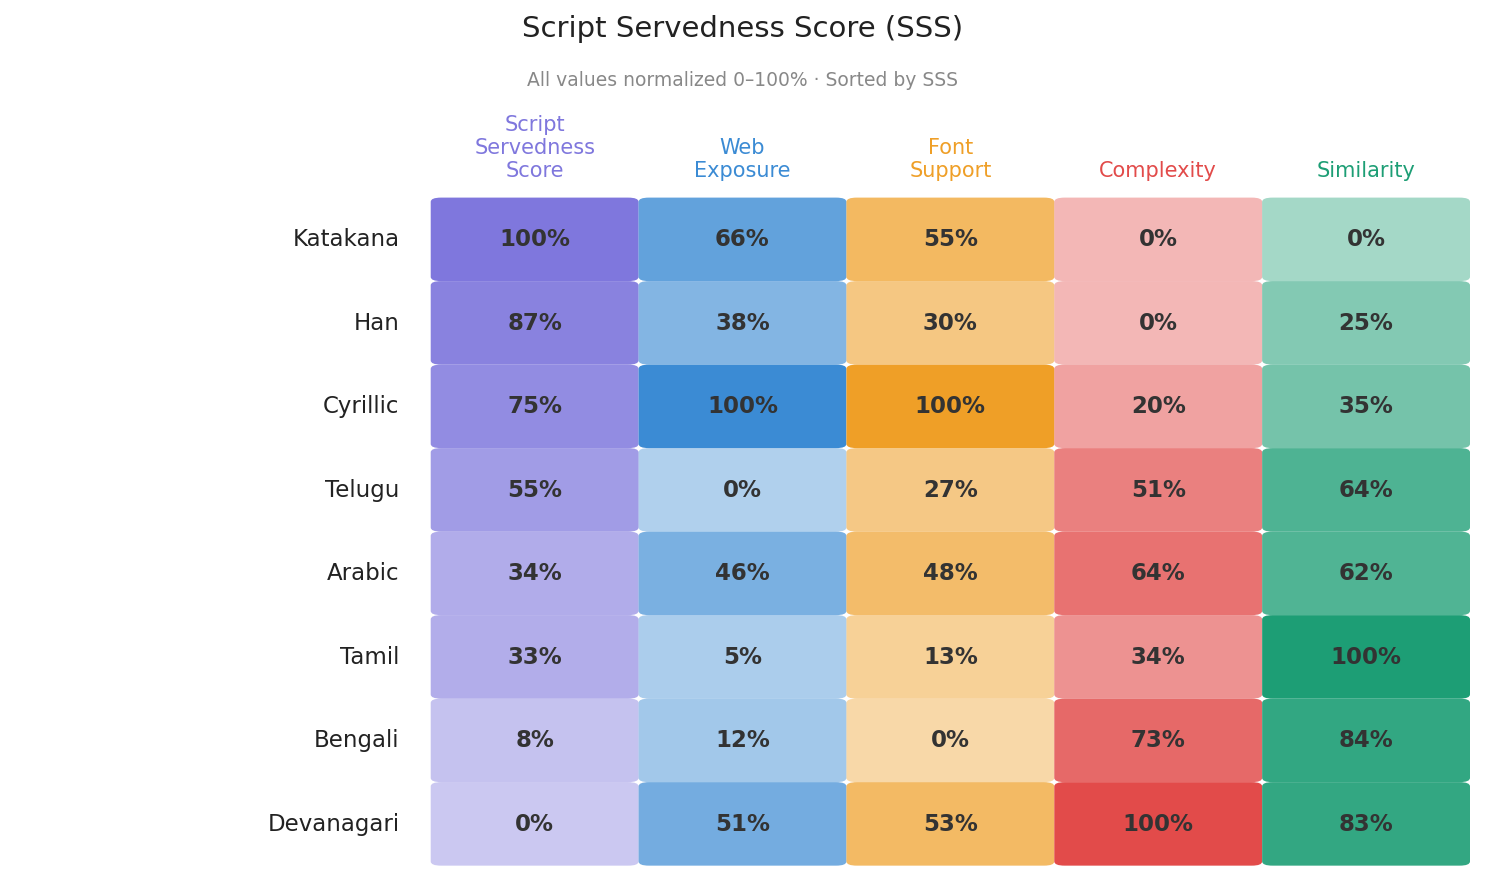
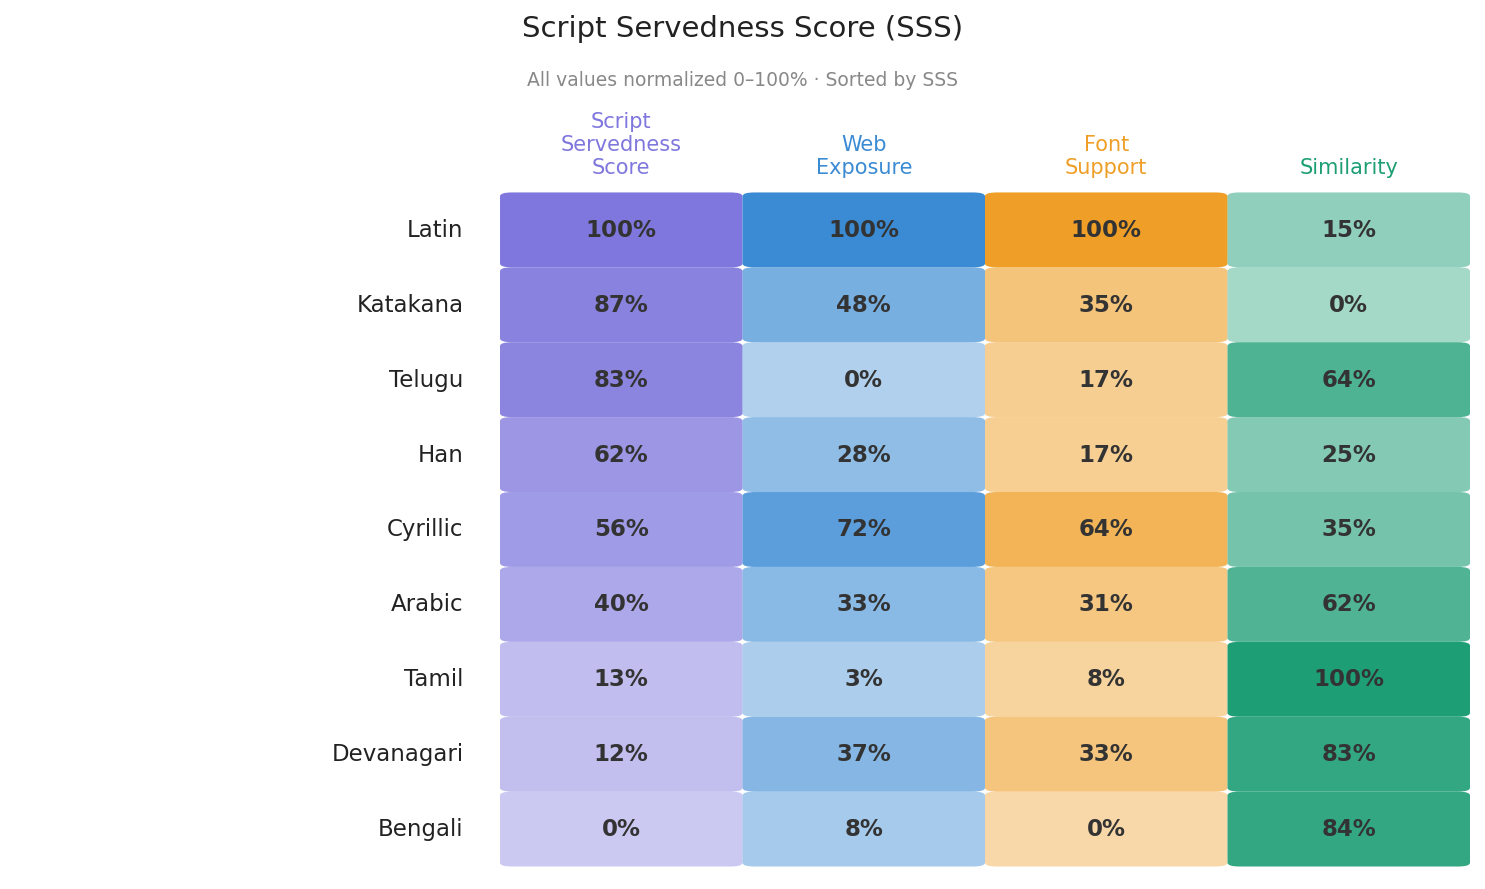
testing seperating complexity from the heatmap

diff --git a/data/viz/heatmap.html b/data/viz/heatmap.html
@@ -149,8 +149,8 @@
 <div class="tooltip" id="tooltip"></div>
 
 <script>
-const data = [{"script": "Katakana", "cells": [{"norm": 1.0, "raw": "-0.114", "label": "SSS", "color": "#7F77DD"}, {"norm": 0.6649, "raw": "434,832", "label": "Web Exposure", "color": "#3B8BD4"}, {"norm": 0.5505, "raw": "67", "label": "Font Support", "color": "#EF9F27"}, {"norm": 0.0, "raw": "0.000", "label": "Complexity", "color": "#E24B4A"}, {"norm": 0.0, "raw": "0.000", "label": "Similarity", "color": "#1D9E75"}]}, {"script": "Han", "cells": [{"norm": 0.8668, "raw": "-0.342", "label": "SSS", "color": "#7F77DD"}, {"norm": 0.384, "raw": "96,340", "label": "Web Exposure", "color": "#3B8BD4"}, {"norm": 0.2953, "raw": "29", "label": "Font Support", "color": "#EF9F27"}, {"norm": 0.0022, "raw": "0.002", "label": "Complexity", "color": "#E24B4A"}, {"norm": 0.2509, "raw": "0.251", "label": "Similarity", "color": "#1D9E75"}]}, {"script": "Cyrillic", "cells": [{"norm": 0.7451, "raw": "-0.549", "label": "SSS", "color": "#7F77DD"}, {"norm": 1.0, "raw": "2,623,937", "label": "Web Exposure", "color": "#3B8BD4"}, {"norm": 1.0, "raw": "293", "label": "Font Support", "color": "#EF9F27"}, {"norm": 0.1969, "raw": "0.167", "label": "Complexity", "color": "#E24B4A"}, {"norm": 0.3525, "raw": "0.353", "label": "Similarity", "color": "#1D9E75"}]}, {"script": "Telugu", "cells": [{"norm": 0.5518, "raw": "-0.879", "label": "SSS", "color": "#7F77DD"}, {"norm": 0.0, "raw": "12,278", "label": "Web Exposure", "color": "#3B8BD4"}, {"norm": 0.2736, "raw": "27", "label": "Font Support", "color": "#EF9F27"}, {"norm": 0.511, "raw": "0.433", "label": "Complexity", "color": "#E24B4A"}, {"norm": 0.6417, "raw": "0.642", "label": "Similarity", "color": "#1D9E75"}]}, {"script": "Arabic", "cells": [{"norm": 0.3442, "raw": "-1.233", "label": "SSS", "color": "#7F77DD"}, {"norm": 0.4609, "raw": "145,526", "label": "Web Exposure", "color": "#3B8BD4"}, {"norm": 0.4848, "raw": "54", "label": "Font Support", "color": "#EF9F27"}, {"norm": 0.6384, "raw": "0.541", "label": "Complexity", "color": "#E24B4A"}, {"norm": 0.6189, "raw": "0.619", "label": "Similarity", "color": "#1D9E75"}]}, {"script": "Tamil", "cells": [{"norm": 0.3307, "raw": "-1.256", "label": "SSS", "color": "#7F77DD"}, {"norm": 0.0461, "raw": "15,721", "label": "Web Exposure", "color": "#3B8BD4"}, {"norm": 0.1326, "raw": "17", "label": "Font Support", "color": "#EF9F27"}, {"norm": 0.343, "raw": "0.290", "label": "Complexity", "color": "#E24B4A"}, {"norm": 1.0, "raw": "1.000", "label": "Similarity", "color": "#1D9E75"}]}, {"script": "Bengali", "cells": [{"norm": 0.0776, "raw": "-1.688", "label": "SSS", "color": "#7F77DD"}, {"norm": 0.1171, "raw": "23,006", "label": "Web Exposure", "color": "#3B8BD4"}, {"norm": 0.0, "raw": "11", "label": "Font Support", "color": "#EF9F27"}, {"norm": 0.7264, "raw": "0.615", "label": "Complexity", "color": "#E24B4A"}, {"norm": 0.8448, "raw": "0.845", "label": "Similarity", "color": "#1D9E75"}]}, {"script": "Devanagari", "cells": [{"norm": 0.0, "raw": "-1.821", "label": "SSS", "color": "#7F77DD"}, {"norm": 0.5135, "raw": "192,989", "label": "Web Exposure", "color": "#3B8BD4"}, {"norm": 0.5268, "raw": "62", "label": "Font Support", "color": "#EF9F27"}, {"norm": 1.0, "raw": "0.847", "label": "Complexity", "color": "#E24B4A"}, {"norm": 0.834, "raw": "0.834", "label": "Similarity", "color": "#1D9E75"}]}];
-const metrics = [{"label": "SSS", "desc": "Higher = well served", "color": "#7F77DD"}, {"label": "Web Exposure", "desc": "Higher = more readers", "color": "#3B8BD4"}, {"label": "Font Support", "desc": "Higher = more fonts", "color": "#EF9F27"}, {"label": "Complexity", "desc": "Higher = harder to engineer", "color": "#E24B4A"}, {"label": "Similarity", "desc": "Higher = less visual choice", "color": "#1D9E75"}];
+const data = [{"script": "Latin", "cells": [{"norm": 1.0, "raw": "-0.074", "label": "SSS", "color": "#7F77DD"}, {"norm": 1.0, "raw": "20,191,468", "label": "Web Exposure", "color": "#3B8BD4"}, {"norm": 1.0, "raw": "1920", "label": "Font Support", "color": "#EF9F27"}, {"norm": 0.148, "raw": "0.148", "label": "Similarity", "color": "#1D9E75"}]}, {"script": "Katakana", "cells": [{"norm": 0.8668, "raw": "-0.132", "label": "SSS", "color": "#7F77DD"}, {"norm": 0.4817, "raw": "434,832", "label": "Web Exposure", "color": "#3B8BD4"}, {"norm": 0.35, "raw": "67", "label": "Font Support", "color": "#EF9F27"}, {"norm": 0.0, "raw": "0.000", "label": "Similarity", "color": "#1D9E75"}]}, {"script": "Telugu", "cells": [{"norm": 0.8317, "raw": "-0.147", "label": "SSS", "color": "#7F77DD"}, {"norm": 0.0, "raw": "12,278", "label": "Web Exposure", "color": "#3B8BD4"}, {"norm": 0.1739, "raw": "27", "label": "Font Support", "color": "#EF9F27"}, {"norm": 0.6417, "raw": "0.642", "label": "Similarity", "color": "#1D9E75"}]}, {"script": "Han", "cells": [{"norm": 0.6237, "raw": "-0.237", "label": "SSS", "color": "#7F77DD"}, {"norm": 0.2782, "raw": "96,340", "label": "Web Exposure", "color": "#3B8BD4"}, {"norm": 0.1666, "raw": "26", "label": "Font Support", "color": "#EF9F27"}, {"norm": 0.2509, "raw": "0.251", "label": "Similarity", "color": "#1D9E75"}]}, {"script": "Cyrillic", "cells": [{"norm": 0.5594, "raw": "-0.265", "label": "SSS", "color": "#7F77DD"}, {"norm": 0.7244, "raw": "2,623,937", "label": "Web Exposure", "color": "#3B8BD4"}, {"norm": 0.6358, "raw": "293", "label": "Font Support", "color": "#EF9F27"}, {"norm": 0.3525, "raw": "0.353", "label": "Similarity", "color": "#1D9E75"}]}, {"script": "Arabic", "cells": [{"norm": 0.3972, "raw": "-0.335", "label": "SSS", "color": "#7F77DD"}, {"norm": 0.3339, "raw": "145,526", "label": "Web Exposure", "color": "#3B8BD4"}, {"norm": 0.3082, "raw": "54", "label": "Font Support", "color": "#EF9F27"}, {"norm": 0.6189, "raw": "0.619", "label": "Similarity", "color": "#1D9E75"}]}, {"script": "Tamil", "cells": [{"norm": 0.1342, "raw": "-0.449", "label": "SSS", "color": "#7F77DD"}, {"norm": 0.0334, "raw": "15,721", "label": "Web Exposure", "color": "#3B8BD4"}, {"norm": 0.0843, "raw": "17", "label": "Font Support", "color": "#EF9F27"}, {"norm": 1.0, "raw": "1.000", "label": "Similarity", "color": "#1D9E75"}]}, {"script": "Devanagari", "cells": [{"norm": 0.1228, "raw": "-0.454", "label": "SSS", "color": "#7F77DD"}, {"norm": 0.372, "raw": "192,989", "label": "Web Exposure", "color": "#3B8BD4"}, {"norm": 0.335, "raw": "62", "label": "Font Support", "color": "#EF9F27"}, {"norm": 0.834, "raw": "0.834", "label": "Similarity", "color": "#1D9E75"}]}, {"script": "Bengali", "cells": [{"norm": 0.0, "raw": "-0.507", "label": "SSS", "color": "#7F77DD"}, {"norm": 0.0848, "raw": "23,006", "label": "Web Exposure", "color": "#3B8BD4"}, {"norm": 0.0, "raw": "11", "label": "Font Support", "color": "#EF9F27"}, {"norm": 0.8448, "raw": "0.845", "label": "Similarity", "color": "#1D9E75"}]}];
+const metrics = [{"label": "SSS", "desc": "Higher = well served", "color": "#7F77DD", "raw_label": "Raw SSS Value"}, {"label": "Web Exposure", "desc": "Higher = more readers", "color": "#3B8BD4", "raw_label": "Num Requests"}, {"label": "Font Support", "desc": "Higher = more fonts", "color": "#EF9F27", "raw_label": "Num Fonts"}, {"label": "Similarity", "desc": "Higher = less visual choice", "color": "#1D9E75", "raw_label": "Similarity Index"}];
 
 function hexToRgb(hex) {
   const r = parseInt(hex.slice(1,3),16);
@@ -208,7 +208,7 @@ data.forEach((row, ri) => {
       const tt = document.getElementById('tooltip');
       tt.innerHTML = `<div class="tooltip-metric" style="color:${metrics[ci].color}">${cell.label}</div>
         <div>Normalized: <strong>${(cell.norm*100).toFixed(1)}%</strong></div>
-        <div class="tooltip-raw">Raw value: ${cell.raw}</div>
+        <div class="tooltip-raw">${metrics[ci].raw_label}: ${cell.raw}</div>
         <div class="tooltip-raw" style="margin-top:4px;font-style:italic">${metrics[ci].desc}</div>`;
       tt.classList.add('show');
       tt.style.left = (e.clientX + 14) + 'px';

diff --git a/data_viz/generate_heatmap.py b/data_viz/generate_heatmap.py
@@ -91,10 +91,10 @@ def load_all_data(repo: Path = REPO_ROOT) -> pd.DataFrame:
     # logger.info(f"  Before mapping: {sup['script'].tolist()}")
 
     # Complexity (from similarity pipeline)
-    com = pd.read_csv(COMPLEXITY_CSV)[["script", "complexity_C"]].rename(columns={"complexity_C": "complexity"})
-    logger.info(f"  Complexity: {COMPLEXITY_CSV.name}")
+    # com = pd.read_csv(COMPLEXITY_CSV)[["script", "complexity_C"]].rename(columns={"complexity_C": "complexity"})
+    # logger.info(f"  Complexity: {COMPLEXITY_CSV.name}")
 
-    logger.info(f"  Before mapping: {com['script'].tolist()}")
+    # logger.info(f"  Before mapping: {com['script'].tolist()}")
 
     # Diversity (100-glyph preferred)
     div = pd.read_csv(SIMILARITY_CSV)[["script", "diversity_index"]]
@@ -108,7 +108,7 @@ def load_all_data(repo: Path = REPO_ROOT) -> pd.DataFrame:
     div["similarity_index"] = 1.0 - div["diversity_index"]
 
     # Merge (use similarity_index instead)
-    master = exp.merge(sup, on="script").merge(com, on="script").merge(div[["script", "similarity_index"]], on="script")
+    master = exp.merge(sup, on="script").merge(div[["script", "similarity_index"]], on="script")#.merge(com, on="script")
     logger.info(f"Merged data: {master}")
     master = master[master["script"].isin(TARGET_SCRIPTS)].reset_index(drop=True)
 
@@ -117,7 +117,10 @@ def load_all_data(repo: Path = REPO_ROOT) -> pd.DataFrame:
     master["log_support"] = np.log10(master["support"])
 
     # Normalize all to 0-1 for heatmap
-    for col in ["log_exposure", "log_support", "complexity", "similarity_index"]:
+    for col in ["log_exposure", 
+                "log_support", 
+                # "complexity", 
+                "similarity_index"]:
         cmin, cmax = master[col].min(), master[col].max()
         master[f"{col}_norm"] = (master[col] - cmin) / (cmax - cmin) if cmax > cmin else 0.5
 
@@ -129,9 +132,18 @@ def load_all_data(repo: Path = REPO_ROOT) -> pd.DataFrame:
         # supply vs demand
         + master["log_support_norm"]
         # higher means more difficult to produce
-        - master["complexity_norm"]
+        # - master["complexity_norm"]
         # higher means less visual choice
+        
         - master["similarity_index_norm"]
+
+        # Since supply and demand balance out in most cases the similarity index becomes dominant 
+        # and needs to be controlled. Previously the complexity index held this role.
+        # - master["similarity_index_norm"] * 0.5
+
+        # This one removes scale from the equation. Solely determines servedness based on the gap. 
+        # Leads to scripts like Telugu appearing well served 
+        # (master["log_support_norm"] * (1 - master["similarity_index_norm"])) / (master["log_exposure_norm"] + 0.1)
     )
     gs_min, gs_max = master["sss"].min(), master["sss"].max()
     
@@ -155,17 +167,18 @@ def generate_html_heatmap(master: pd.DataFrame) -> str:
     n = len(scripts)
 
     metrics = [
-        ("sss_norm",       "SSS",      "Higher = well served",  "#7F77DD"),
-        ("log_exposure_norm",    "Web Exposure",   "Higher = more readers",      "#3B8BD4"),
-        ("log_support_norm",     "Font Support",   "Higher = more fonts",        "#EF9F27"),
-        ("complexity_norm",      "Complexity",     "Higher = harder to engineer","#E24B4A"),
-        ("similarity_index_norm", "Similarity",     "Higher = less visual choice","#1D9E75"),
+        # 1. value column, 2. label, 3. tooltip description, 4. color 5. data labels
+        ("sss_norm",       "SSS",      "Higher = well served",  "#7F77DD", "Raw SSS Value"),
+        ("log_exposure_norm",    "Web Exposure",   "Higher = more readers",      "#3B8BD4", "Num Requests"),
+        ("log_support_norm",     "Font Support",   "Higher = more fonts",        "#EF9F27", "Num Fonts"),
+        # ("complexity_norm",      "Complexity",     "Higher = harder to engineer","#E24B4A"),
+        ("similarity_index_norm", "Similarity",     "Higher = less visual choice","#1D9E75", "Similarity Index"),
     ]
 
     raw_cols = {
         "log_exposure_norm":    ("exposure",       lambda v: f"{int(v):,}"),
         "log_support_norm":     ("support",        lambda v: f"{int(v)}"),
-        "complexity_norm":      ("complexity",     lambda v: f"{v:.3f}"),
+        # "complexity_norm":      ("complexity",     lambda v: f"{v:.3f}"),
         "similarity_index_norm": ("similarity_index",lambda v: f"{v:.3f}"),
         "sss_norm":       ("sss",      lambda v: f"{v:.3f}"),
     }
@@ -174,7 +187,7 @@ def generate_html_heatmap(master: pd.DataFrame) -> str:
     rows = []
     for _, row in master.iterrows():
         row_data = {"script": row["script"], "cells": []}
-        for norm_col, label, desc, color in metrics:
+        for norm_col, label, desc, color, raw_label in metrics:
             val = row[norm_col]
             raw_col, fmt = raw_cols[norm_col]
             raw_val = fmt(row[raw_col])
@@ -189,7 +202,7 @@ def generate_html_heatmap(master: pd.DataFrame) -> str:
     import json
     data_json = json.dumps(rows)
     metrics_json = json.dumps([
-        {"label": m[1], "desc": m[2], "color": m[3]} for m in metrics
+        {"label": m[1], "desc": m[2], "color": m[3], "raw_label": m[4]} for m in metrics
     ])
 
     html = f"""<!DOCTYPE html>
@@ -402,7 +415,7 @@ data.forEach((row, ri) => {{
       const tt = document.getElementById('tooltip');
       tt.innerHTML = `<div class="tooltip-metric" style="color:${{metrics[ci].color}}">${{cell.label}}</div>
         <div>Normalized: <strong>${{(cell.norm*100).toFixed(1)}}%</strong></div>
-        <div class="tooltip-raw">Raw value: ${{cell.raw}}</div>
+        <div class="tooltip-raw">${{metrics[ci].raw_label}}: ${{cell.raw}}</div>
         <div class="tooltip-raw" style="margin-top:4px;font-style:italic">${{metrics[ci].desc}}</div>`;
       tt.classList.add('show');
       tt.style.left = (e.clientX + 14) + 'px';
@@ -453,7 +466,7 @@ def generate_png_heatmap(master: pd.DataFrame, output_path: Path):
         ("sss_norm",       "Script\nServedness\nScore",     "#7F77DD"),
         ("log_exposure_norm",    "Web\nExposure",  "#3B8BD4"),
         ("log_support_norm",     "Font\nSupport",  "#EF9F27"),
-        ("complexity_norm",      "Complexity",     "#E24B4A"),
+        # ("complexity_norm",      "Complexity",     "#E24B4A"),
         ("similarity_index_norm", "Similarity",     "#1D9E75"),
     ]
 
@@ -532,7 +545,7 @@ def main():
     master = load_all_data()
 
     print("\n📊 Data loaded:\n")
-    print(master[["script", "exposure", "support", "complexity",
+    print(master[["script", "exposure", "support", #"complexity",
                    "similarity_index", "sss_norm"]].to_string(index=False))
 
     # HTML heatmap
